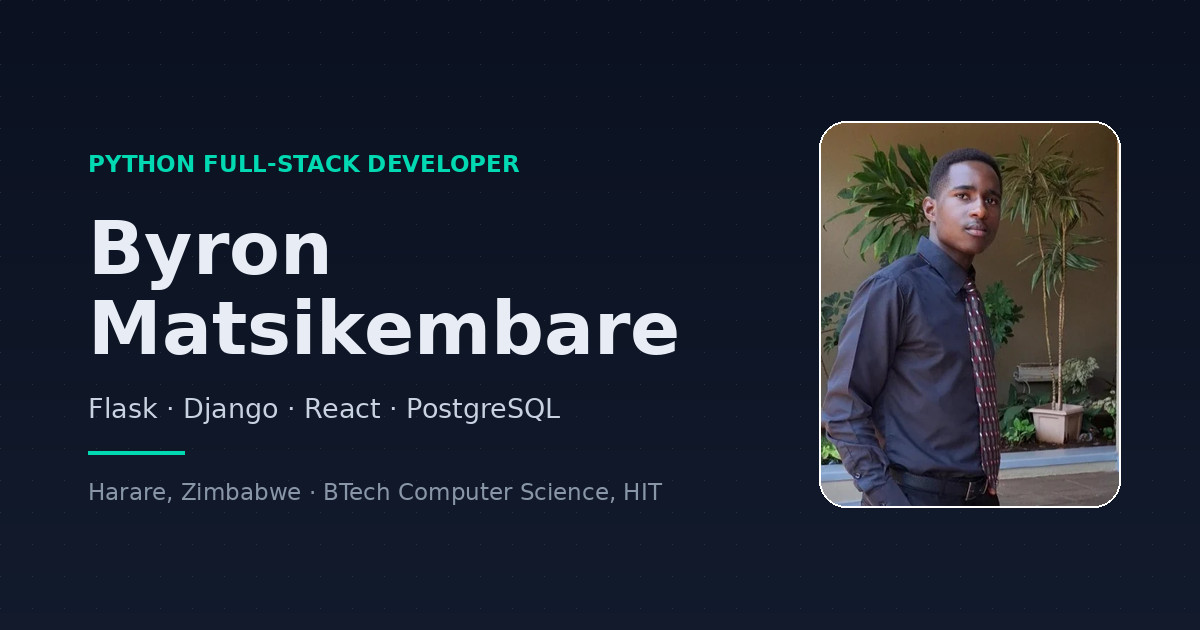
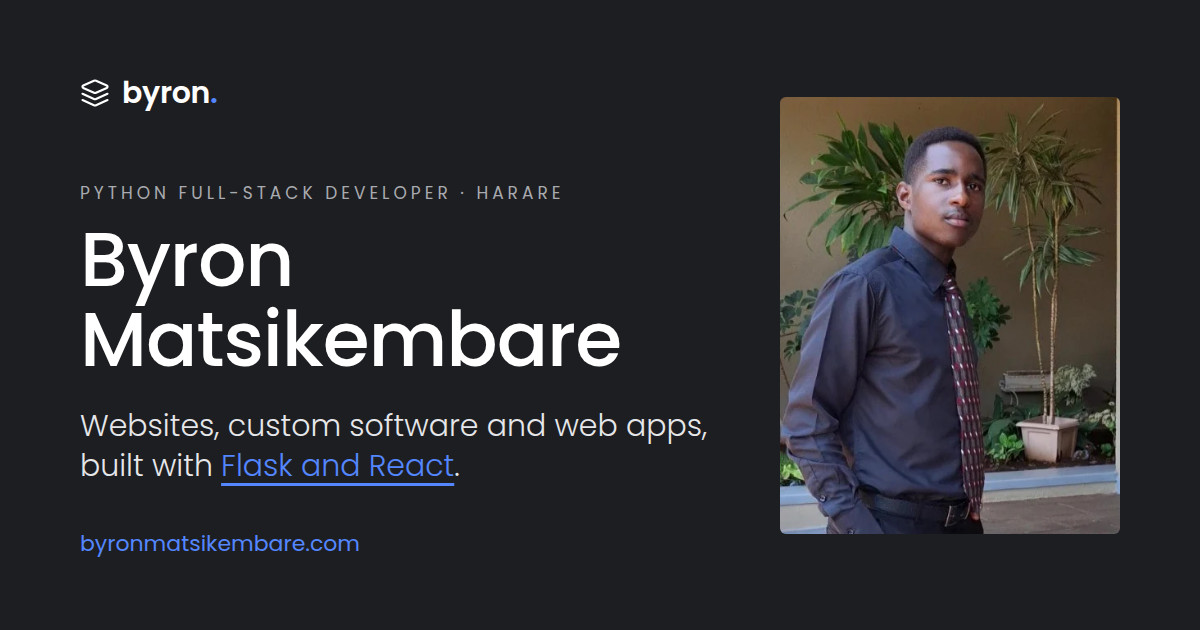
SEO pass: one URL per page, services in schema, new share card
- trailingSlash 'never' + vercel.json redirect, so /about/ 308s to
  /about and sitemap, RSS and canonical tags all agree
- Homepage description and Person JSON-LD now cover the services
  (makesOffer) and current role (worksFor)
- New 1200x630 share card in the site's design (npm run og)
- Favicon redrawn in the new brand; apple-touch-icon added

diff --git a/scripts/og-card.html b/scripts/og-card.html
@@ -1,0 +1,43 @@
+<!doctype html>
+<!-- Source of public/og.jpg (1200x630 social-share card). Edit, then run: npm run og -->
+<html lang="en">
+<head>
+<meta charset="utf-8">
+<link href="https://fonts.googleapis.com/css2?family=Poppins:wght@300;400;500;600&display=block" rel="stylesheet">
+<style>
+  * { margin: 0; padding: 0; box-sizing: border-box; }
+  html, body { width: 1200px; height: 630px; overflow: hidden; }
+  body {
+    font-family: 'Poppins', sans-serif; font-weight: 300; color: #fff;
+    background: #1d1e21;
+    display: grid; grid-template-columns: 1fr 340px; gap: 64px; align-items: center;
+    padding: 64px 80px;
+  }
+  .brand { display: flex; align-items: center; gap: 12px; font-size: 30px; font-weight: 600; letter-spacing: -.01em; }
+  .brand svg { width: 30px; height: 30px; }
+  .dot { color: #5487ff; }
+  .eyebrow { margin-top: 64px; font-size: 17px; font-weight: 400; letter-spacing: 4px; text-transform: uppercase; color: #a9abb0; }
+  h1 { margin-top: 14px; font-size: 76px; line-height: 1.05; font-weight: 500; letter-spacing: -.015em; }
+  .line { margin-top: 26px; font-size: 30px; line-height: 1.35; color: #e6e7ea; max-width: 640px; }
+  .line em { font-style: normal; color: #5487ff; text-decoration: underline; text-decoration-thickness: 3px; text-underline-offset: 7px; }
+  .url { margin-top: 40px; font-size: 22px; font-weight: 400; color: #5487ff; }
+  .photo { width: 340px; height: 437px; border-radius: 6px; overflow: hidden; background: #25262a; }
+  .photo img { width: 100%; height: 100%; object-fit: cover; display: block; }
+</style>
+</head>
+<body>
+  <div>
+    <div class="brand">
+      <svg viewBox="0 0 24 24" fill="none" stroke="#ffffff" stroke-width="1.75" stroke-linecap="round" stroke-linejoin="round"><path d="m12.83 2.18a2 2 0 0 0-1.66 0L2.6 6.08a1 1 0 0 0 0 1.83l8.58 3.91a2 2 0 0 0 1.66 0l8.58-3.9a1 1 0 0 0 0-1.83Z" />
+  <path d="m22 17.65-9.17 4.16a2 2 0 0 1-1.66 0L2 17.65" />
+  <path d="m22 12.65-9.17 4.16a2 2 0 0 1-1.66 0L2 12.65" /></svg>
+      <span>byron<span class="dot">.</span></span>
+    </div>
+    <p class="eyebrow">Python full-stack developer · Harare</p>
+    <h1>Byron Matsikembare</h1>
+    <p class="line">Websites, custom software and web apps, built with <em>Flask and React</em>.</p>
+    <p class="url">byronmatsikembare.com</p>
+  </div>
+  <div class="photo"><img src="../public/images/byron-matsikembare-python-developer.webp" alt=""></div>
+</body>
+</html>

diff --git a/src/config.ts b/src/config.ts
@@ -19,9 +19,9 @@ export const SITE = {
   title: 'Byron Matsikembare – Python Full-Stack Developer, Harare',
   shortTitle: 'Byron Matsikembare',
   description:
-    'Byron Matsikembare is a Python full-stack developer and Computer Science student at HIT, building Flask, Django and React web apps in Harare, Zimbabwe.',
+    'Byron Matsikembare is a Python developer in Harare, Zimbabwe, building websites, custom software and web apps with Flask and React.',
   ogImage: '/og.jpg',
   locale: 'en',
   keywords:
-    'Byron Matsikembare, Python developer Harare, Python full-stack developer, Flask developer Zimbabwe, Django developer, React developer Harare, Harare Institute of Technology',
+    'Byron Matsikembare, Python developer Harare, Python full-stack developer, Flask developer Zimbabwe, web developer Harare, website design Zimbabwe, custom software Zimbabwe, wedding invitation website, online voting system, React developer Harare, Harare Institute of Technology',
 };

diff --git a/src/pages/rss.xml.ts b/src/pages/rss.xml.ts
@@ -10,11 +10,12 @@ export async function GET(context: APIContext) {
     title: `${SITE.shortTitle} – Blog`,
     description: 'Notes on Python, Flask, Django and React, and on studying and building software in Zimbabwe.',
     site: context.site!,
+    trailingSlash: false, // match the canonical URLs (/blog/post, no slash)
     items: posts.map((post) => ({
       title: post.data.title,
       description: post.data.description,
       pubDate: post.data.date!,
-      link: `/blog/${post.slug}/`,
+      link: `/blog/${post.slug}`,
       categories: [post.data.category, ...post.data.tags],
     })),
     customData: '<language>en</language>',
